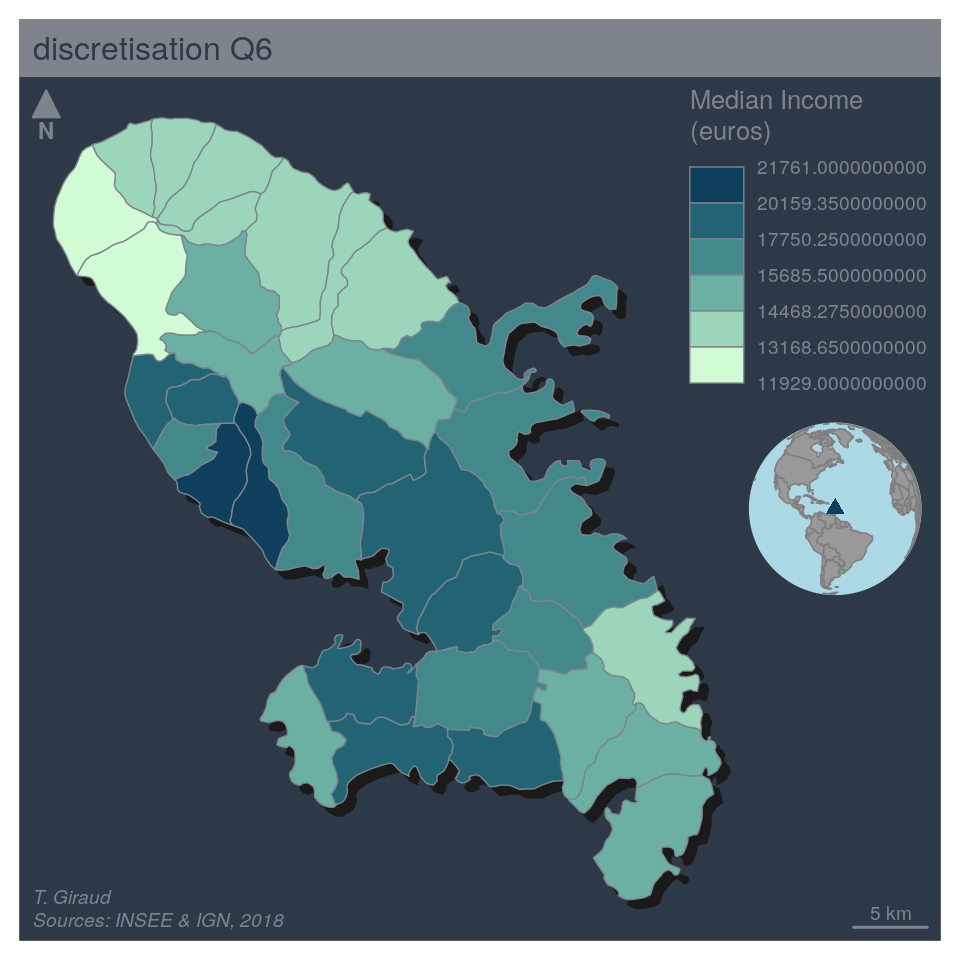
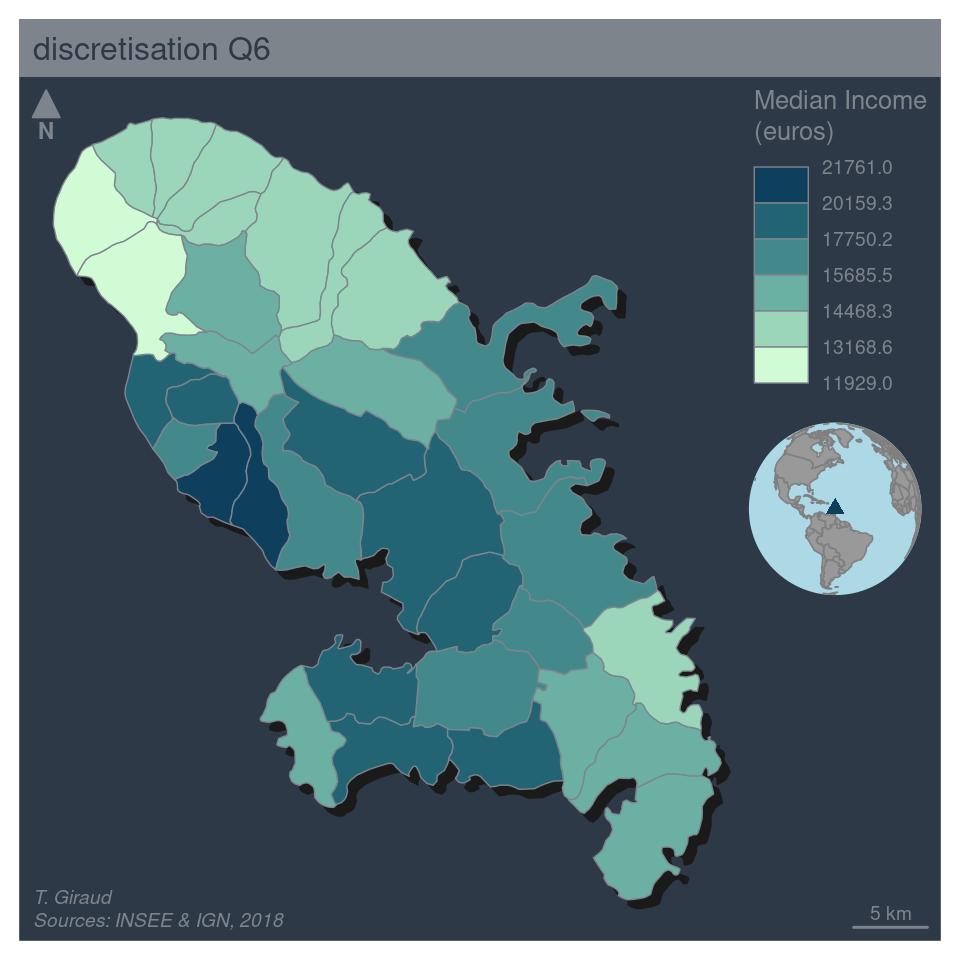
update

Changed region(s): [[0.7188, 0.0938, 0.9688, 0.4062], [0.125, 0.0312, 0.2812, 0.0625], [0.0312, 0.9375, 0.125, 0.9688]]

diff --git a/index.html b/index.html
@@ -40,7 +40,6 @@
     };
   </script>
 
-  <script src="index_files/header-attrs-2.9/header-attrs.js"></script>
   <link href="index_files/ioslides-13.5.1/fonts/fonts.css" rel="stylesheet" />
   <link href="index_files/ioslides-13.5.1/theme/css/default.css" rel="stylesheet" />
   <link href="index_files/ioslides-13.5.1/theme/css/phone.css" rel="stylesheet" />
@@ -92,69 +91,67 @@ slide:not(.current) .plotly.html-widget{
     div.column{display: inline-block; vertical-align: top; width: 50%;}
     div.hanging-indent{margin-left: 1.5em; text-indent: -1.5em;}
     ul.task-list{list-style: none;}
-            pre > code.sourceCode { white-space: pre; position: relative; }
-            pre > code.sourceCode > span { display: inline-block; line-height: 1.25; }
-            pre > code.sourceCode > span:empty { height: 1.2em; }
-            .sourceCode { overflow: visible; }
-            code.sourceCode > span { color: inherit; text-decoration: inherit; }
-            div.sourceCode { margin: 1em 0; }
-            pre.sourceCode { margin: 0; }
-            @media screen {
-            div.sourceCode { overflow: auto; }
-            }
-            @media print {
-            pre > code.sourceCode { white-space: pre-wrap; }
-            pre > code.sourceCode > span { text-indent: -5em; padding-left: 5em; }
-            }
-            pre.numberSource code
-              { counter-reset: source-line 0; }
-            pre.numberSource code > span
-              { position: relative; left: -4em; counter-increment: source-line; }
-            pre.numberSource code > span > a:first-child::before
-              { content: counter(source-line);
-                position: relative; left: -1em; text-align: right; vertical-align: baseline;
-                border: none; display: inline-block;
-                -webkit-touch-callout: none; -webkit-user-select: none;
-                -khtml-user-select: none; -moz-user-select: none;
-                -ms-user-select: none; user-select: none;
-                padding: 0 4px; width: 4em;
-                color: #aaaaaa;
-              }
-            pre.numberSource { margin-left: 3em; border-left: 1px solid #aaaaaa;  padding-left: 4px; }
-            div.sourceCode
-              {   }
-            @media screen {
-            pre > code.sourceCode > span > a:first-child::before { text-decoration: underline; }
-            }
-            code span.al { color: #ff0000; font-weight: bold; } /* Alert */
-            code span.an { color: #60a0b0; font-weight: bold; font-style: italic; } /* Annotation */
-            code span.at { color: #7d9029; } /* Attribute */
-            code span.bn { color: #40a070; } /* BaseN */
-            code span.bu { } /* BuiltIn */
-            code span.cf { color: #007020; font-weight: bold; } /* ControlFlow */
-            code span.ch { color: #4070a0; } /* Char */
-            code span.cn { color: #880000; } /* Constant */
-            code span.co { color: #60a0b0; font-style: italic; } /* Comment */
-            code span.cv { color: #60a0b0; font-weight: bold; font-style: italic; } /* CommentVar */
-            code span.do { color: #ba2121; font-style: italic; } /* Documentation */
-            code span.dt { color: #902000; } /* DataType */
-            code span.dv { color: #40a070; } /* DecVal */
-            code span.er { color: #ff0000; font-weight: bold; } /* Error */
-            code span.ex { } /* Extension */
-            code span.fl { color: #40a070; } /* Float */
-            code span.fu { color: #06287e; } /* Function */
-            code span.im { } /* Import */
-            code span.in { color: #60a0b0; font-weight: bold; font-style: italic; } /* Information */
-            code span.kw { color: #007020; font-weight: bold; } /* Keyword */
-            code span.op { color: #666666; } /* Operator */
-            code span.ot { color: #007020; } /* Other */
-            code span.pp { color: #bc7a00; } /* Preprocessor */
-            code span.sc { color: #4070a0; } /* SpecialChar */
-            code span.ss { color: #bb6688; } /* SpecialString */
-            code span.st { color: #4070a0; } /* String */
-            code span.va { color: #19177c; } /* Variable */
-            code span.vs { color: #4070a0; } /* VerbatimString */
-            code span.wa { color: #60a0b0; font-weight: bold; font-style: italic; } /* Warning */
+            a.sourceLine { display: inline-block; line-height: 1.25; }
+    a.sourceLine { pointer-events: none; color: inherit; text-decoration: inherit; }
+    a.sourceLine:empty { height: 1.2em; }
+    .sourceCode { overflow: visible; }
+    code.sourceCode { white-space: pre; position: relative; }
+    div.sourceCode { margin: 1em 0; }
+    pre.sourceCode { margin: 0; }
+    @media screen {
+    div.sourceCode { overflow: auto; }
+    }
+    @media print {
+    code.sourceCode { white-space: pre-wrap; }
+    a.sourceLine { text-indent: -1em; padding-left: 1em; }
+    }
+    pre.numberSource a.sourceLine
+      { position: relative; left: -4em; }
+    pre.numberSource a.sourceLine::before
+      { content: attr(title);
+        position: relative; left: -1em; text-align: right; vertical-align: baseline;
+        border: none; pointer-events: all; display: inline-block;
+        -webkit-touch-callout: none; -webkit-user-select: none;
+        -khtml-user-select: none; -moz-user-select: none;
+        -ms-user-select: none; user-select: none;
+        padding: 0 4px; width: 4em;
+        color: #aaaaaa;
+      }
+    pre.numberSource { margin-left: 3em; border-left: 1px solid #aaaaaa;  padding-left: 4px; }
+    div.sourceCode
+      {  }
+    @media screen {
+    a.sourceLine::before { text-decoration: underline; }
+    }
+    code span.al { color: #ff0000; font-weight: bold; } /* Alert */
+    code span.an { color: #60a0b0; font-weight: bold; font-style: italic; } /* Annotation */
+    code span.at { color: #7d9029; } /* Attribute */
+    code span.bn { color: #40a070; } /* BaseN */
+    code span.bu { } /* BuiltIn */
+    code span.cf { color: #007020; font-weight: bold; } /* ControlFlow */
+    code span.ch { color: #4070a0; } /* Char */
+    code span.cn { color: #880000; } /* Constant */
+    code span.co { color: #60a0b0; font-style: italic; } /* Comment */
+    code span.cv { color: #60a0b0; font-weight: bold; font-style: italic; } /* CommentVar */
+    code span.do { color: #ba2121; font-style: italic; } /* Documentation */
+    code span.dt { color: #902000; } /* DataType */
+    code span.dv { color: #40a070; } /* DecVal */
+    code span.er { color: #ff0000; font-weight: bold; } /* Error */
+    code span.ex { } /* Extension */
+    code span.fl { color: #40a070; } /* Float */
+    code span.fu { color: #06287e; } /* Function */
+    code span.im { } /* Import */
+    code span.in { color: #60a0b0; font-weight: bold; font-style: italic; } /* Information */
+    code span.kw { color: #007020; font-weight: bold; } /* Keyword */
+    code span.op { color: #666666; } /* Operator */
+    code span.ot { color: #007020; } /* Other */
+    code span.pp { color: #bc7a00; } /* Preprocessor */
+    code span.sc { color: #4070a0; } /* SpecialChar */
+    code span.ss { color: #bb6688; } /* SpecialString */
+    code span.st { color: #4070a0; } /* String */
+    code span.va { color: #19177c; } /* Variable */
+    code span.vs { color: #4070a0; } /* VerbatimString */
+    code span.wa { color: #60a0b0; font-weight: bold; font-style: italic; } /* Warning */
         
   </style>
 
@@ -196,6 +193,8 @@ mf_arrow(&#39;topleft&#39;)</pre>
 
 </article></slide><slide class=""><hgroup><h2>Population</h2></hgroup><article  id="population-1">
 
+<pre >## Warning: package &#39;sf&#39; was built under R version 4.0.4</pre>
+
 <p><img src="index_files/figure-html/pop-1.png" width="384" /></p>
 
 </article></slide><slide class=""><hgroup><h2>Niveau de vie</h2></hgroup><article  class="smaller" id="niveau-de-vie">
@@ -211,7 +210,7 @@ mf_map(x = mtq, var = &quot;MED&quot;, type = &quot;choro&quot;,
        breaks = &quot;q6&quot;, 
        nbreaks = 6, 
        leg_title = &quot;Median Income\n(euros)&quot;, 
-       leg_val_rnd = 10,
+       leg_val_rnd = 1,
        add = TRUE)
 # Add an inset world map
 mf_inset_on(x = &quot;worldmap&quot;, pos = &quot;right&quot;)
